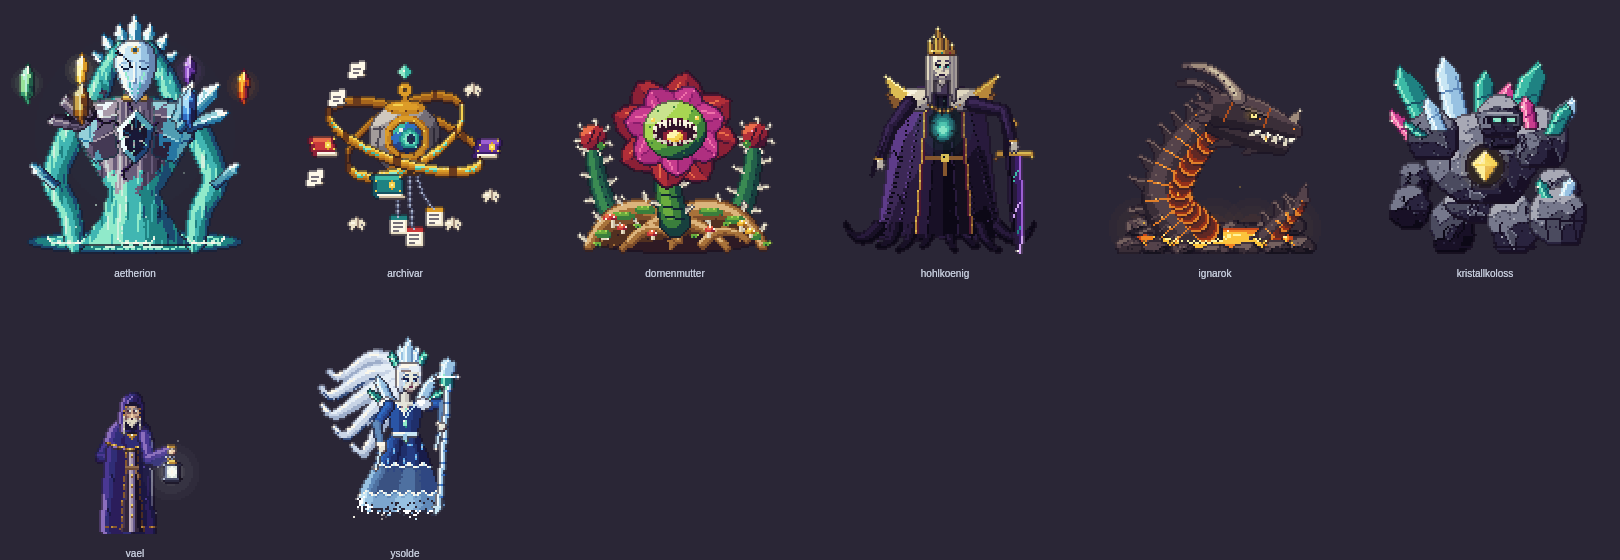
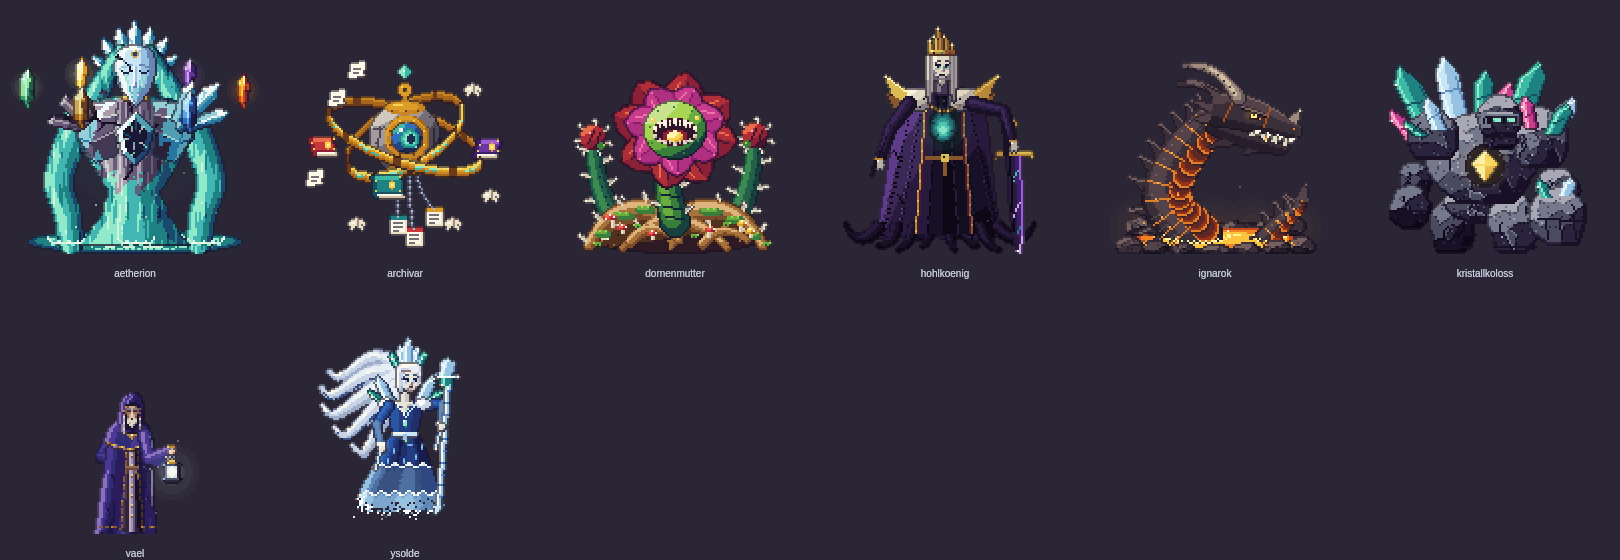
Vael und Aetherion: Posen, Ränder und Lesbarkeit überarbeitet
Vael: hageres Gesicht, Faltenwurf, Schleppe, Hand bleibt beim Niederknien auf der Laterne.
Aetherion: Brustplatten, schwerere Arme, Abstand zu den Frame-Rändern, Mandorla im Schlussbild.

Claude-Session: https://claude.ai/code/session_01RqpoYuwkQgyKncWb2VSQum

diff --git a/client/src/gfx/bosses/aetherion.ts b/client/src/gfx/bosses/aetherion.ts
@@ -42,8 +42,8 @@ function pose(f: BFr): A {
   const z: A = { dy: 0, lean: 0, hd: [0, 0], Rh: null, Lh: null, bend: 1, fl: f.n > 1 ? i / f.n : 0, heart: 0.35, still: 0.34, eyes: 0, f };
   switch (f.a) {
     case 'idle': z.dy = [0, 0, -1, -1, -1, 0][i]; z.hd = [0, [0, 0, 0, 1, 1, 0][i]]; z.heart = 0.3 + [0, 0.1, 0.2, 0.3, 0.2, 0.1][i]; break;
-    case 'windup': z.lean = [-2, -3][i]; z.dy = [0, -1][i]; z.hd = pk([[-1, 0], [-1, -1]], i); z.Rh = pk([[113, 78], [110, 26]], i); z.heart = [0.5, 0.8][i]; z.eyes = [0.5, 1][i]; break;
-    case 'attack': z.lean = [2, 4, 3, 1][i]; z.dy = [0, 2, 2, 1][i]; z.hd = pk([[1, 1], [2, 2], [1, 2], [0, 1]], i); z.Rh = i < 3 ? pk([[114, 62], [106, 104], [104, 109]], i) : null; z.heart = [0.8, 0.6, 0.45, 0.4][i]; z.eyes = [1, 1, 0.5, 0][i]; break;
+    case 'windup': z.lean = [-2, -3][i]; z.dy = [0, -1][i]; z.hd = pk([[-1, 0], [-1, -1]], i); z.Rh = pk([[108, 80], [108, 28]], i); z.heart = [0.5, 0.8][i]; z.eyes = [0.5, 1][i]; break;
+    case 'attack': z.lean = [2, 4, 3, 1][i]; z.dy = [0, 2, 2, 1][i]; z.hd = pk([[1, 1], [2, 2], [1, 2], [0, 1]], i); z.Rh = i < 3 ? pk([[110, 62], [102, 104], [101, 109]], i) : null; z.heart = [0.8, 0.6, 0.45, 0.4][i]; z.eyes = [1, 1, 0.5, 0][i]; break;
     case 'special': z.dy = [-1, -2, -1, -2][i]; z.hd = [0, -1]; z.Lh = pk([[21, 84], [20, 82], [21, 84], [22, 85]], i); z.Rh = pk([[107, 84], [108, 82], [107, 84], [106, 85]], i); z.heart = [1.1, 1.5, 1.1, 1.5][i]; z.eyes = 1; z.still = [0.34, 0.4, 0.34, 0.4][i]; z.bend = -1; break;
     case 'hit': z.lean = [-3, -1][i]; z.hd = pk([[-2, -1], [-1, 0]], i); z.heart = 0.15; break;
     case 'death': { const k = Math.min(i, 3); z.dy = [1, 2, 3, 4][k]; z.hd = pk([[0, 1], [0, 2], [-1, 3], [-1, 4]], k); z.still = [0.55, 0.72, 0.9, 1.2][k]; z.heart = [0.5, 0.35, 0.2, 0.1][k]; z.fl = k / 8; break; }
@@ -117,13 +117,13 @@ function shard(p: Px, x: number, y: number, k: number, s: number, lit: number): 
 }
 interface Sh { x: number; y: number; front: boolean; s: number; lit: number }
 function shardAt(f: BFr, k: number, dy: number): Sh {
-  let a = (k / 6) * TAU, rx = 54, ry = 10, cy = 38, lit = 0.5;
+  let a = (k / 6) * TAU, rx = 54, ry = 10, cy = 40, lit = 0.5;
   const bob = Math.sin(f.ph + k * 1.7) * 1.5;
   switch (f.a) {
     case 'idle': a += Math.sin(f.ph) * 0.16; break;
     case 'windup': a += 0.14 + f.i * 0.1; rx = 54 - f.i * 3; lit = 0.8; break;
     case 'attack': a += [0.32, 0.44, 0.36, 0.2][f.i]; rx = [51, 56, 55, 54][f.i]; break;
-    case 'special': a += Math.sin(f.ph) * 0.1 + 0.26; ry = 7; cy = 27; rx = 47; lit = [1, 1.3, 1, 1.3][f.i]; break;
+    case 'special': a += Math.sin(f.ph) * 0.1 + 0.26; ry = 7; cy = 31; rx = 48; lit = [1, 1.3, 1, 1.3][f.i]; break;
     case 'hit': rx = [57, 56][f.i]; a -= [0.12, 0.06][f.i]; break;
     case 'death': a += 0.05 * f.i; rx = 54 - Math.min(f.i, 3) * 2; lit = 0.5 + Math.min(f.i, 3) * 0.1; break;
   }
@@ -131,11 +131,11 @@ function shardAt(f: BFr, k: number, dy: number): Sh {
   return { x: CX + Math.cos(a) * rx, y: cy + dy * 0.5 + sa * ry + bob, front: sa > 0, s: sa > 0 ? 1.05 : 0.88, lit };
 }
 /** Ruheplatz der Kristalle nach der Erlösung: ein stiller Bogen über dem Haupt. */
-function shardRest(k: number): Pt { const a = ((203 + k * 26.8) / 360) * TAU; return [CX + Math.cos(a) * 40, 50 + Math.sin(a) * 40]; }
+function shardRest(k: number): Pt { const a = ((200 + k * 28) / 360) * TAU; return [CX + Math.cos(a) * 38, 55 + Math.sin(a) * 37]; }
 
 /** Die Maske: ruhig, Augen geschlossen (eyes 0) oder Lichtschlitze (1); crack = Riss der Stille über dem linken Auge. */
 function mask(l: Px, mx: number, my: number, eyes: number, crack: number, calm = false): void {
-  const hw = (j: number): number => (j < 3 ? [5, 7, 8][j] : j <= 12 ? (j >= 6 ? 10 : 9) : j <= 22 ? lerp(10, 6.4, (j - 12) / 10) : lerp(6.4, 0.6, (j - 22) / 7));
+  const hw = (j: number): number => (j < 3 ? [3.6, 6.4, 8][j] : j <= 12 ? (j >= 6 ? 10 : 9) : j <= 22 ? lerp(10, 6.4, (j - 12) / 10) : lerp(6.4, 0.6, (j - 22) / 7));
   for (let j = 0; j < 30; j++) {
     const w = hw(j);
     for (let x = Math.ceil(-w); x < w; x++) {
@@ -222,15 +222,13 @@ function poolFront(p: Px, fl: number, pts: ReadonlyArray<number>): void {
 /** Arm aus Wasserlicht; hand = null → ruht mit der Hand im Quellwasser. */
 function arm(p: Px, z: A, sg: number, hand: Pt | null): void {
   const sh: Pt = [CX + z.lean + sg * 28, 55 + z.dy];
-  const el: Pt = hand ? ik(sh, hand, 22, 30, sg * z.bend * (hand[1] < sh[1] ? 1 : -1)) : [CX + sg * 40 + z.lean * 0.5, 83 + z.dy * 0.5];
+  const el: Pt = hand ? ik(sh, hand, 22, 30, sg * z.bend * (hand[1] < sh[1] ? 1 : -1)) : [CX + sg * 38 + z.lean * 0.5, 84 + z.dy * 0.5];
   lay(p, (l) => {
     const m = new Px(l.w, l.h);
-    if (!hand) blob(m, spline([sh, el, [CX + sg * 33, 100], [CX + sg * 30, 116]], 8), 7, 4.8);
-    else { blob(m, spline([sh, el], 8), 7, 6); blob(m, spline([el, hand], 8), 6, 5); m.ell(hand[0], hand[1], 6.6, 6.6, 1); }
+    if (!hand) blob(m, spline([sh, el, [CX + sg * 34, 101], [CX + sg * 32, 116]], 8), 7.6, 6);
+    else { blob(m, spline([sh, el], 8), 7.6, 6.4); blob(m, spline([el, hand], 8), 6.4, 5.2); m.ell(hand[0], hand[1], 6.6, 6.6, 1); }
     water(l, m, z.fl);
   });
-  // Kristallsporn am Ellbogen
-  lay(p, (l) => prism(l, el[0] + sg * 3, el[1] + 2, el[0] + sg * 12, el[1] - 6, 2.4, sg < 0 && z.still > 0.6 ? STILL : CR, { seed: 14 + sg, clipY: 999 }));
   if (hand) {
     // Kristallklauen und Armschiene
     const ang = Math.atan2(hand[1] - el[1], hand[0] - el[0]);
@@ -244,10 +242,10 @@ function arm(p: Px, z: A, sg: number, hand: Pt | null): void {
 
 /** Leib, Mähne, Krone, Schultern; liefert die Mitte der Wunde. */
 function figure(p: Px, z: A, sh: Sh[]): Pt {
-  const sx = CX + z.lean, by = z.dy, mx = sx + z.hd[0], my = 16 + by + z.hd[1], H: Pt = [sx, 63 + by];
+  const sx = CX + z.lean, by = z.dy, mx = sx + z.hd[0], my = 18 + by + z.hd[1], H: Pt = [sx, 64 + by];
   // Krone aus Kristall hinter dem Haupt
   lay(p, (l) => {
-    for (const [bx, b2, tx, ty, hw, sd] of [[-11, 14, -21, 5, 2.2, 3], [11, 14, 21, 5, 2.2, 4], [-9, 9, -16, -4, 2.6, 5], [9, 9, 16, -4, 2.6, 6], [-5, 6, -8, -9, 2.8, 7], [5, 6, 8, -9, 2.8, 8], [0, 5, 0, -13, 3.4, 9]] as const)
+    for (const [bx, b2, tx, ty, hw, sd] of [[-11, 14, -21, 5, 2.2, 3], [11, 14, 21, 5, 2.2, 4], [-9, 9, -16, -4, 2.6, 5], [9, 9, 16, -4, 2.6, 6], [-5, 6, -8, -9, 2.8, 7], [5, 6, 8, -9, 2.8, 8], [0, 5, 0, -12, 3.4, 9]] as const)
       prism(l, mx + bx, my + b2, mx + tx, my + ty, hw, CR, { seed: sd, clipY: 999 });
   });
   for (let k = 0; k < 6; k++) if (!sh[k].front) shard(p, sh[k].x, sh[k].y, k, sh[k].s, sh[k].lit);
@@ -262,7 +260,7 @@ function figure(p: Px, z: A, sh: Sh[]): Pt {
   lay(p, (l) => {
     const m = new Px(l.w, l.h), wx = CX + z.lean * 0.5;
     m.poly([[sx - 31, 53 + by], [sx - 23, 46 + by], [sx - 8, 44 + by], [sx + 8, 44 + by], [sx + 23, 46 + by], [sx + 31, 53 + by], [sx + 29, 63 + by], [sx + 21, 77 + by], [wx + 13, 90], [wx - 13, 90], [sx - 21, 77 + by], [sx - 29, 63 + by]], 1);
-    m.rect(sx - 5, 38 + by, 10, 8, 1);
+    m.rect(sx - 5, 40 + by, 10, 6, 1);
     for (let y = 88; y < 117; y++) { const v = (y - 88) / 28, hw = 13 + v * v * 14 + Math.sin(y * 0.6) * 0.6; m.rect(R(wx - hw), y, R(hw * 2), 1, 1); }
     water(l, m, z.fl);
   });
@@ -296,7 +294,7 @@ function figure(p: Px, z: A, sh: Sh[]): Pt {
 
 /** Was bleibt: ruhiges Licht – ein schmaler Schleier unter der unversehrten Maske. t = Erscheinen 0..1 */
 function calmLight(p: Px, t: number, fl: number): void {
-  const my = 20;
+  const my = 22;
   glow(p, CX, 62, 46, WL[3], 12 * t); glow(p, CX, 56, 28, WL[4], 22 * t);
   for (let y = 46; y < 116; y++) {
     const v = (y - 46) / 70, hw = 5 + v * v * 21 + Math.sin(y * 0.22 + fl * TAU) * 1.3 * v;
@@ -328,7 +326,8 @@ const fn = (p: Px, f: BFr): void => {
     if (i < 7) {
       const snap = new Px(p.w, p.h);
       figure(snap, z3, [0, 1, 2, 3, 4, 5].map((k) => ({ ...shardAt({ ...f, i: 3 }, k, z3.dy), front: true, x: -99 })));
-      const s = shatter(snap, t, GY, 23, { cell: 7, spread: 1.5, heap: 6, pop: 6, cx: CX });
+      const s = shatter(snap, t, GY, 23, { cell: 7, spread: 0.7, heap: 6, pop: 6, cx: CX });
+      for (let y = 0; y < s.h; y++) for (const x of [0, 1, 2, s.w - 3, s.w - 2, s.w - 1]) s.d[y * s.w + x] = 0;
       if (i >= 5) dissolve(s, i === 5 ? 0.35 : 0.72, 5);
       if (i === 6) s.alphaMul(0.7);
       p.draw(s);
@@ -364,13 +363,13 @@ const fn = (p: Px, f: BFr): void => {
   }
   if (f.a === 'attack' && z.Rh) {
     const h = z.Rh;
-    if (i === 0) { for (let a = -1.45; a < 0.1; a += 0.02) for (let r = 36; r < 50; r += 1) { const t = (a + 1.45) / 1.55, x = 94 + Math.cos(a) * r * 0.62, y = 62 + Math.sin(a) * r; if (x < 126 && y > 2) p.blend(x, y, alpha(r > 46 ? WHITE : r > 41 ? WL[5] : WL[4], R(190 * t * t))); } spark(p, h[0], h[1], WHITE, WL[5], 3); }
+    if (i === 0) { for (let a = -1.45; a < 0.1; a += 0.02) for (let r = 36; r < 50; r += 1) { const t = (a + 1.45) / 1.55, x = 94 + Math.cos(a) * r * 0.62, y = 62 + Math.sin(a) * r; if (x < 124 && y > 2) p.blend(x, y, alpha(r > 46 ? WHITE : r > 41 ? WL[5] : WL[4], R(120 * t * t))); } spark(p, h[0], h[1], WHITE, WL[5], 3); }
     if (i >= 1) {
       // Aufschlag: Fontäne aus Wasserlicht, Kristallsplitter, Stoßwelle
-      const k = i === 1 ? 1 : 0.75, cx = 105;
-      for (let j = 0; j < 46; j++) { const a = -Math.PI * rnd2(j, 1, 8), d = (8 + rnd2(j, 2, 8) * 26) * (i === 1 ? 0.7 : 1), x = cx + Math.cos(a) * d * 0.8, y = 113 + Math.sin(a) * d * (0.9 + rnd2(j, 3, 8) * 0.6); if (x > 2 && x < 126 && y > 2) { p.set(x, y, j % 4 === 0 ? WHITE : WL[j % 3 ? 5 : 4]); if (j % 3 === 0) p.set(x, y + 1, WL[4]); } }
+      const k = i === 1 ? 1 : 0.75, cx = 101;
+      for (let j = 0; j < 46; j++) { const a = -Math.PI * rnd2(j, 1, 8), d = (8 + rnd2(j, 2, 8) * 26) * (i === 1 ? 0.7 : 1), x = cx + Math.cos(a) * d * 0.8, y = 113 + Math.sin(a) * d * (0.9 + rnd2(j, 3, 8) * 0.6); if (x > 2 && x < 124 && y > 2) { p.set(x, y, j % 4 === 0 ? WHITE : WL[j % 3 ? 5 : 4]); if (j % 3 === 0) p.set(x, y + 1, WL[4]); } }
       lay(p, (l) => { for (const [dx, hh, ln] of [[-13, 20, -4], [-4, 30, -1], [6, 34, 3], [15, 22, 6]] as const) prism(l, cx + dx, 116, cx + dx + ln * k, 116 - hh * k, 2.8, CR, { seed: 40 + dx, clipY: 999 }); });
-      for (let x = cx - 30; x < Math.min(126, cx + 21); x++) { const u = (x - cx) / 30, y = 119 - R((1 - u * u) * (i === 1 ? 4 : 2)); if (Math.abs(u) < 0.95 && (x + i) % 5 !== 0) { p.blend(x, y, alpha(WHITE, R(255 * (1 - u * u * 0.7)))); p.blend(x, y + 1, alpha(WL[4], R(200 * (1 - u * u)))); } }
+      for (let x = cx - 30; x < Math.min(124, cx + 23); x++) { const u = (x - cx) / 30, y = 119 - R((1 - u * u) * (i === 1 ? 4 : 2)); if (Math.abs(u) < 0.95 && (x + i) % 5 !== 0) { p.blend(x, y, alpha(WHITE, R(255 * (1 - u * u * 0.7)))); p.blend(x, y + 1, alpha(WL[4], R(200 * (1 - u * u)))); } }
       glow(p, cx, 108, 18, WL[4], i === 1 ? 70 : 36);
     }
   }

diff --git a/client/src/gfx/bosses/vael.ts b/client/src/gfx/bosses/vael.ts
@@ -27,24 +27,24 @@ const PALE: Ramp = [mix(P.steel[2], P.shadow[3], 0.4), mix(P.ice[2], P.cream[2],
 const SH: Ramp = [mix(INK, P.shadow[0], 0.5), P.shadow[0], P.shadow[1], mix(P.shadow[3], P.violet[1], 0.5), P.violet[2]];
 const HOODDARK = mix(INK, MANT[0], 0.45);
 
-interface V { dy: number; lean: number; hd: Pt; bow: number; hand: Pt; free: Pt; sw: number; light: number; kn: number; ground: boolean; blink: boolean; heart: boolean; ph: number; f: BFr }
+interface V { dy: number; lean: number; hd: Pt; bow: number; hand: Pt; free: Pt; sw: number; light: number; kn: number; ground: boolean; blink: boolean; open: boolean; heart: boolean; ph: number; f: BFr }
 
 function pose(f: BFr): V {
   const i = f.i;
-  const z: V = { dy: 0, lean: 0, hd: [0, 1], bow: 0, hand: [66, 48], free: [43, 54], sw: 0, light: 0.6, kn: 0, ground: false, blink: false, heart: false, ph: f.ph, f };
+  const z: V = { dy: 0, lean: 0, hd: [0, 1], bow: 0, hand: [66, 48], free: [43, 54], sw: 0, light: 0.6, kn: 0, ground: false, blink: false, open: false, heart: false, ph: f.ph, f };
   switch (f.a) {
     case 'idle': z.dy = [0, 0, -1, -1, -1, 0][i]; z.hand = [66, 48 + z.dy]; z.free = [43, 54 + z.dy]; z.sw = [0, 1, 1, 0, -1, -1][i]; z.light = 0.6 + [0, 0.1, 0.2, 0.12, 0.02, -0.05][i]; z.blink = i === 4; break;
-    case 'windup': z.lean = [-1, -2][i]; z.dy = [0, -1][i]; z.hd = pk([[0, 0], [0, -1]], i); z.hand = pk([[65, 36], [62, 23]], i); z.free = pk([[44, 52], [45, 50]], i); z.light = [1, 1.4][i]; z.sw = [-1, 0][i]; break;
-    case 'attack': z.lean = [1, 3, 3, 1][i]; z.dy = [0, 1, 1, 0][i]; z.hd = pk([[1, 1], [2, 2], [2, 2], [1, 1]], i); z.hand = pk([[67, 32], [71, 46], [70, 48], [67, 48]], i); z.sw = [2, 3, 1, 0][i]; z.light = [1.5, 1.2, 0.9, 0.7][i]; z.free = pk([[45, 51], [46, 53], [46, 54], [44, 54]], i); break;
-    case 'special': z.dy = [-1, -2, -1, -2][i]; z.hd = [0, 0]; z.hand = pk([[63, 26], [63, 24], [63, 26], [63, 27]], i); z.free = pk([[29, 46], [28, 44], [29, 46], [30, 47]], i); z.light = [1.2, 1.5, 1.2, 1.5][i]; z.ph = i * 1.57; break;
+    case 'windup': z.open = true; z.lean = [-1, -2][i]; z.dy = [0, -1][i]; z.hd = pk([[0, 0], [0, -1]], i); z.hand = pk([[65, 36], [62, 23]], i); z.free = pk([[44, 52], [45, 50]], i); z.light = [1, 1.4][i]; z.sw = [-1, 0][i]; break;
+    case 'attack': z.open = i < 3; z.lean = [1, 3, 3, 1][i]; z.dy = [0, 1, 1, 0][i]; z.hd = pk([[1, 1], [2, 2], [2, 2], [1, 1]], i); z.hand = pk([[67, 32], [71, 46], [70, 48], [67, 48]], i); z.sw = [2, 3, 1, 0][i]; z.light = [1.5, 1.2, 0.9, 0.7][i]; z.free = pk([[45, 51], [46, 53], [46, 54], [44, 54]], i); break;
+    case 'special': z.open = true; z.dy = [-1, -2, -1, -2][i]; z.hd = [0, 0]; z.hand = pk([[63, 26], [63, 24], [63, 26], [63, 27]], i); z.free = pk([[28, 60], [27, 58], [28, 60], [29, 61]], i); z.light = [1.2, 1.5, 1.2, 1.5][i]; z.ph = i * 1.57; break;
     case 'hit': z.lean = [-3, -1][i]; z.hd = pk([[-2, 0], [-1, 1]], i); z.hand = pk([[67, 45], [66, 47]], i); z.sw = [3, 1][i]; z.light = 0.3; z.free = pk([[41, 52], [42, 54]], i); break;
     case 'death':
       // Nachgeben: Arm sinkt, er geht auf ein Knie, stellt die Laterne ab, legt die Hand aufs Herz und neigt den Kopf
       z.kn = [0, 0, 0.35, 0.75, 1, 1, 1, 1][i]; z.dy = R(z.kn * 18); z.lean = [-1, 0, 1, 1, 1, 1, 1, 1][i];
       z.bow = [0, 0.3, 0.45, 0.6, 0.8, 1, 1, 1][i]; z.hd = [R(z.bow * 2), 1 + R(z.bow * 3)];
-      z.hand = pk([[65, 51], [64, 58], [64, 66], [65, 72], [66, 74], [59, 74], [58, 74], [58, 74]], i);
-      z.free = pk([[43, 55], [43, 56], [44, 61], [45, 68], [46, 68], [47, 66], [47, 66], [47, 66]], i);
-      z.heart = i >= 4; z.ground = i >= 4; z.sw = [1, 0, 0, 0, 0, 0, 0, 0][i]; z.light = [0.35, 0.4, 0.45, 0.5, 0.55, 0.5, 0.6, 0.55][i]; z.ph = i * 0.5;
+      z.hand = pk([[65, 51], [64, 58], [64, 66], [65, 72], [66, 74], [66, 74], [66, 74], [66, 74]], i);
+      z.free = pk([[43, 55], [43, 56], [43, 61], [43, 68], [43, 72], [43, 73], [43, 73], [43, 73]], i);
+      z.ground = i >= 4; z.sw = [1, 0, 0, 0, 0, 0, 0, 0][i]; z.light = [0.35, 0.4, 0.45, 0.5, 0.55, 0.5, 0.6, 0.55][i]; z.ph = i * 0.5;
       break;
   }
   return z;
@@ -83,12 +83,12 @@ const FACE = [
   'ddddddd',
   'dtmmmtd',
   'tGGmGGt',
-  'tEpmEpm',
-  'sttmttm',
-  'smmlmmm',
-  'tsmlmst',
-  'tgwowgt',
-  'gwwwwwG',
+  'tEEmEEt',
+  'tsslsst',
+  '.smlms.',
+  '.tmlmt.',
+  '.gwowg.',
+  '.wwwww.',
   '.wgwwG.',
   '..wwG..',
   '...g...',
@@ -110,7 +110,7 @@ function head(l: Px, hx: number, hy: number, z: V): void {
     for (let i = 0; i < 7; i++) {
       let ch = row[i];
       if (ch === '.') continue;
-      if ((z.blink || z.bow > 0.4) && ch === 'p') ch = 'E';
+      if (ch === 'E' && z.open && !z.blink && z.bow < 0.4 && (i === 2 || i === 5)) ch = 'p';
       l.set(hx + 3 + i, hy + 5 + j, col[ch]);
     }
   });
@@ -134,7 +134,7 @@ function cloth(l: Px, m: Px, r: Ramp, folds: number, ph: number, y0: number, y1:
     for (let x = xl; x <= xr; x++) {
       if (!m.d[y * m.w + x]) continue;
       const u = (x - xl) / Math.max(1, xr - xl), fold = Math.sin(u * folds + v * 1.3 + ph);
-      const t = 2.55 + bias - u * 1.9 + fold * (0.35 + v * 0.75) + (u < 0.07 ? 0.7 : 0) - (u > 0.93 ? 0.7 : 0);
+      const t = 2.55 + bias - u * 1.7 + fold * (0.5 + v * 0.85) + (u < 0.07 ? 0.7 : 0) - (u > 0.93 ? 0.7 : 0);
       l.set(x, y, r[clamp(Math.floor(t), 0, r.length - 1)]);
     }
   }
@@ -157,14 +157,14 @@ const STOLE: Ramp = [mix(MANT[3], P.bone[1], 0.5), mix(MANT[4], P.bone[2], 0.55)
 const ROPE = mix(P.tan[2], P.ash[3], 0.4), ROPE_D = mix(P.tan[1], P.ash[2], 0.4);
 
 function figure(p: Px, z: V): void {
-  const S: Pt = [CX + z.lean, 38 + z.dy], kn = z.kn, hemL = 14 + kn * 6, hemR = 13 + kn * 5, hx = S[0] - 5 + z.hd[0], hy = S[1] - 19 + z.hd[1];
+  const S: Pt = [CX + z.lean, 38 + z.dy], kn = z.kn, hemL = 17 + kn * 5, hemR = 13 + kn * 5, hx = S[0] - 5 + z.hd[0], hy = S[1] - 19 + z.hd[1];
   const backArm = (): void => { lay(p, (l) => sleeve(l, [S[0] - 8, S[1] + 3], z.free, 1, 0)); };
   // hinterer Arm (hält den Mantel zusammen)
   if (!z.heart) backArm();
   // Mantel: fällt gerade, Saum abgewetzt; beim Knien breitet er sich aus
   lay(p, (l) => {
     const m = new Px(l.w, l.h);
-    m.poly([[S[0] - 9, S[1]], [S[0] - 5, S[1] - 4], [S[0] + 5, S[1] - 4], [S[0] + 9, S[1]], [S[0] + 11, S[1] + 12], [CX + lerp(12, 17, kn), lerp(66, 80, kn)], [CX + hemR, GY + 1], [CX - hemL, GY + 1], [CX - lerp(13, 19, kn), lerp(66, 80, kn)], [S[0] - 11, S[1] + 12]], 1);
+    m.poly([[S[0] - 9, S[1]], [S[0] - 5, S[1] - 4], [S[0] + 5, S[1] - 4], [S[0] + 9, S[1]], [S[0] + 11, S[1] + 12], [CX + lerp(12, 17, kn), lerp(66, 80, kn)], [CX + hemR, GY + 1], [CX - hemL, GY + 1], [CX - hemL + 1, GY - 3], [CX - lerp(14, 19, kn), lerp(70, 80, kn)], [S[0] - 11, S[1] + 12]], 1);
     if (kn > 0.3) { m.ell(CX - 16, GY - 3, 11 * kn, 3.6, 1); m.ell(CX + 10, GY - 9 * kn, 8 * kn, 8 * kn, 1); m.rect(CX + 2, GY - R(9 * kn), R(16 * kn), R(9 * kn) + 1, 1); }
     for (let x = 0; x < m.w; x++) { const h = rnd2(x >> 1, 3, 17); if (h < 0.34) m.set(x, GY, 0); if (h < 0.1) m.set(x, GY - 1, 0); }
     for (let y = GY + 1; y < m.h; y++) for (let x = 0; x < m.w; x++) m.set(x, y, 0);
@@ -191,7 +191,7 @@ function figure(p: Px, z: V): void {
   lay(p, (l) => {
     const m = new Px(l.w, l.h);
     m.poly([[S[0] - 12, S[1] + 6], [S[0] - 10, S[1] - 1], [S[0] - 6, S[1] - 5], [S[0] + 6, S[1] - 5], [S[0] + 10, S[1] - 1], [S[0] + 12, S[1] + 6], [S[0] + 7, S[1] + 9], [S[0], S[1] + 10], [S[0] - 7, S[1] + 9]], 1);
-    cloth(l, m, MANT, 9, 1.2, S[1] - 5, S[1] + 22, 0.7);
+    cloth(l, m, MANT, 9, 1.2, S[1] - 5, S[1] + 22, 1);
     for (let x = -11; x <= 11; x++) { const y = R(S[1] + 8.6 - ((x * x) / 121) * 3); if (m.get(S[0] + x, y)) l.set(S[0] + x, y, (x + 12) % 4 === 0 ? OG[3] : (x + 12) % 4 === 2 ? OG[1] : OG[2]); }
     // Schließe: Scheibe mit hellem Stein
     l.rect(S[0], S[1] + 1, 3, 3, OG[2]); l.px([S[0] + 1, S[1], S[0] + 1, S[1] + 4, S[0] - 1, S[1] + 2, S[0] + 3, S[1] + 2], OG[2]); l.set(S[0] + 1, S[1] + 2, PALE[3]); l.set(S[0], S[1] + 1, OG[4]); l.set(S[0] + 2, S[1] + 3, OG[1]);
@@ -292,7 +292,7 @@ const fn = (p: Px, f: BFr): void => {
   }
   // Hand über dem Ring
   if (!z.ground) lay(p, (l) => { const hx = R(z.hand[0]), hy = R(z.hand[1]); l.rect(hx - 1, hy, 3, 2, SK[3]); l.set(hx - 1, hy, SK[4]); l.set(hx + 1, hy + 1, SK[1]); });
-  if (z.ground && i === 4) lay(p, (l) => { const hx = R(z.hand[0]), hy = R(z.hand[1]); l.rect(hx - 1, hy - 1, 3, 2, SK[3]); l.set(hx - 1, hy - 1, SK[4]); });
+  if (z.ground) lay(p, (l) => { const hx = R(z.hand[0]), hy = R(z.hand[1]); l.rect(hx - 1, hy - 1, 3, 2, SK[3]); l.set(hx - 1, hy - 1, SK[4]); l.set(hx + 1, hy, SK[1]); });
   // --- vor der Gestalt
   if (f.a === 'windup') { spark(p, lc[0], lc[1], WHITE, PALE[3], 1 + i); for (let k = 0; k < 6; k++) { const a = k * 1.05 + i * 0.5, d = 13 - i * 4; p.blend(lc[0] + Math.cos(a) * d, lc[1] + Math.sin(a) * d, alpha(k % 2 ? WHITE : PALE[3], 220)); } }
   if (f.a === 'attack') {
